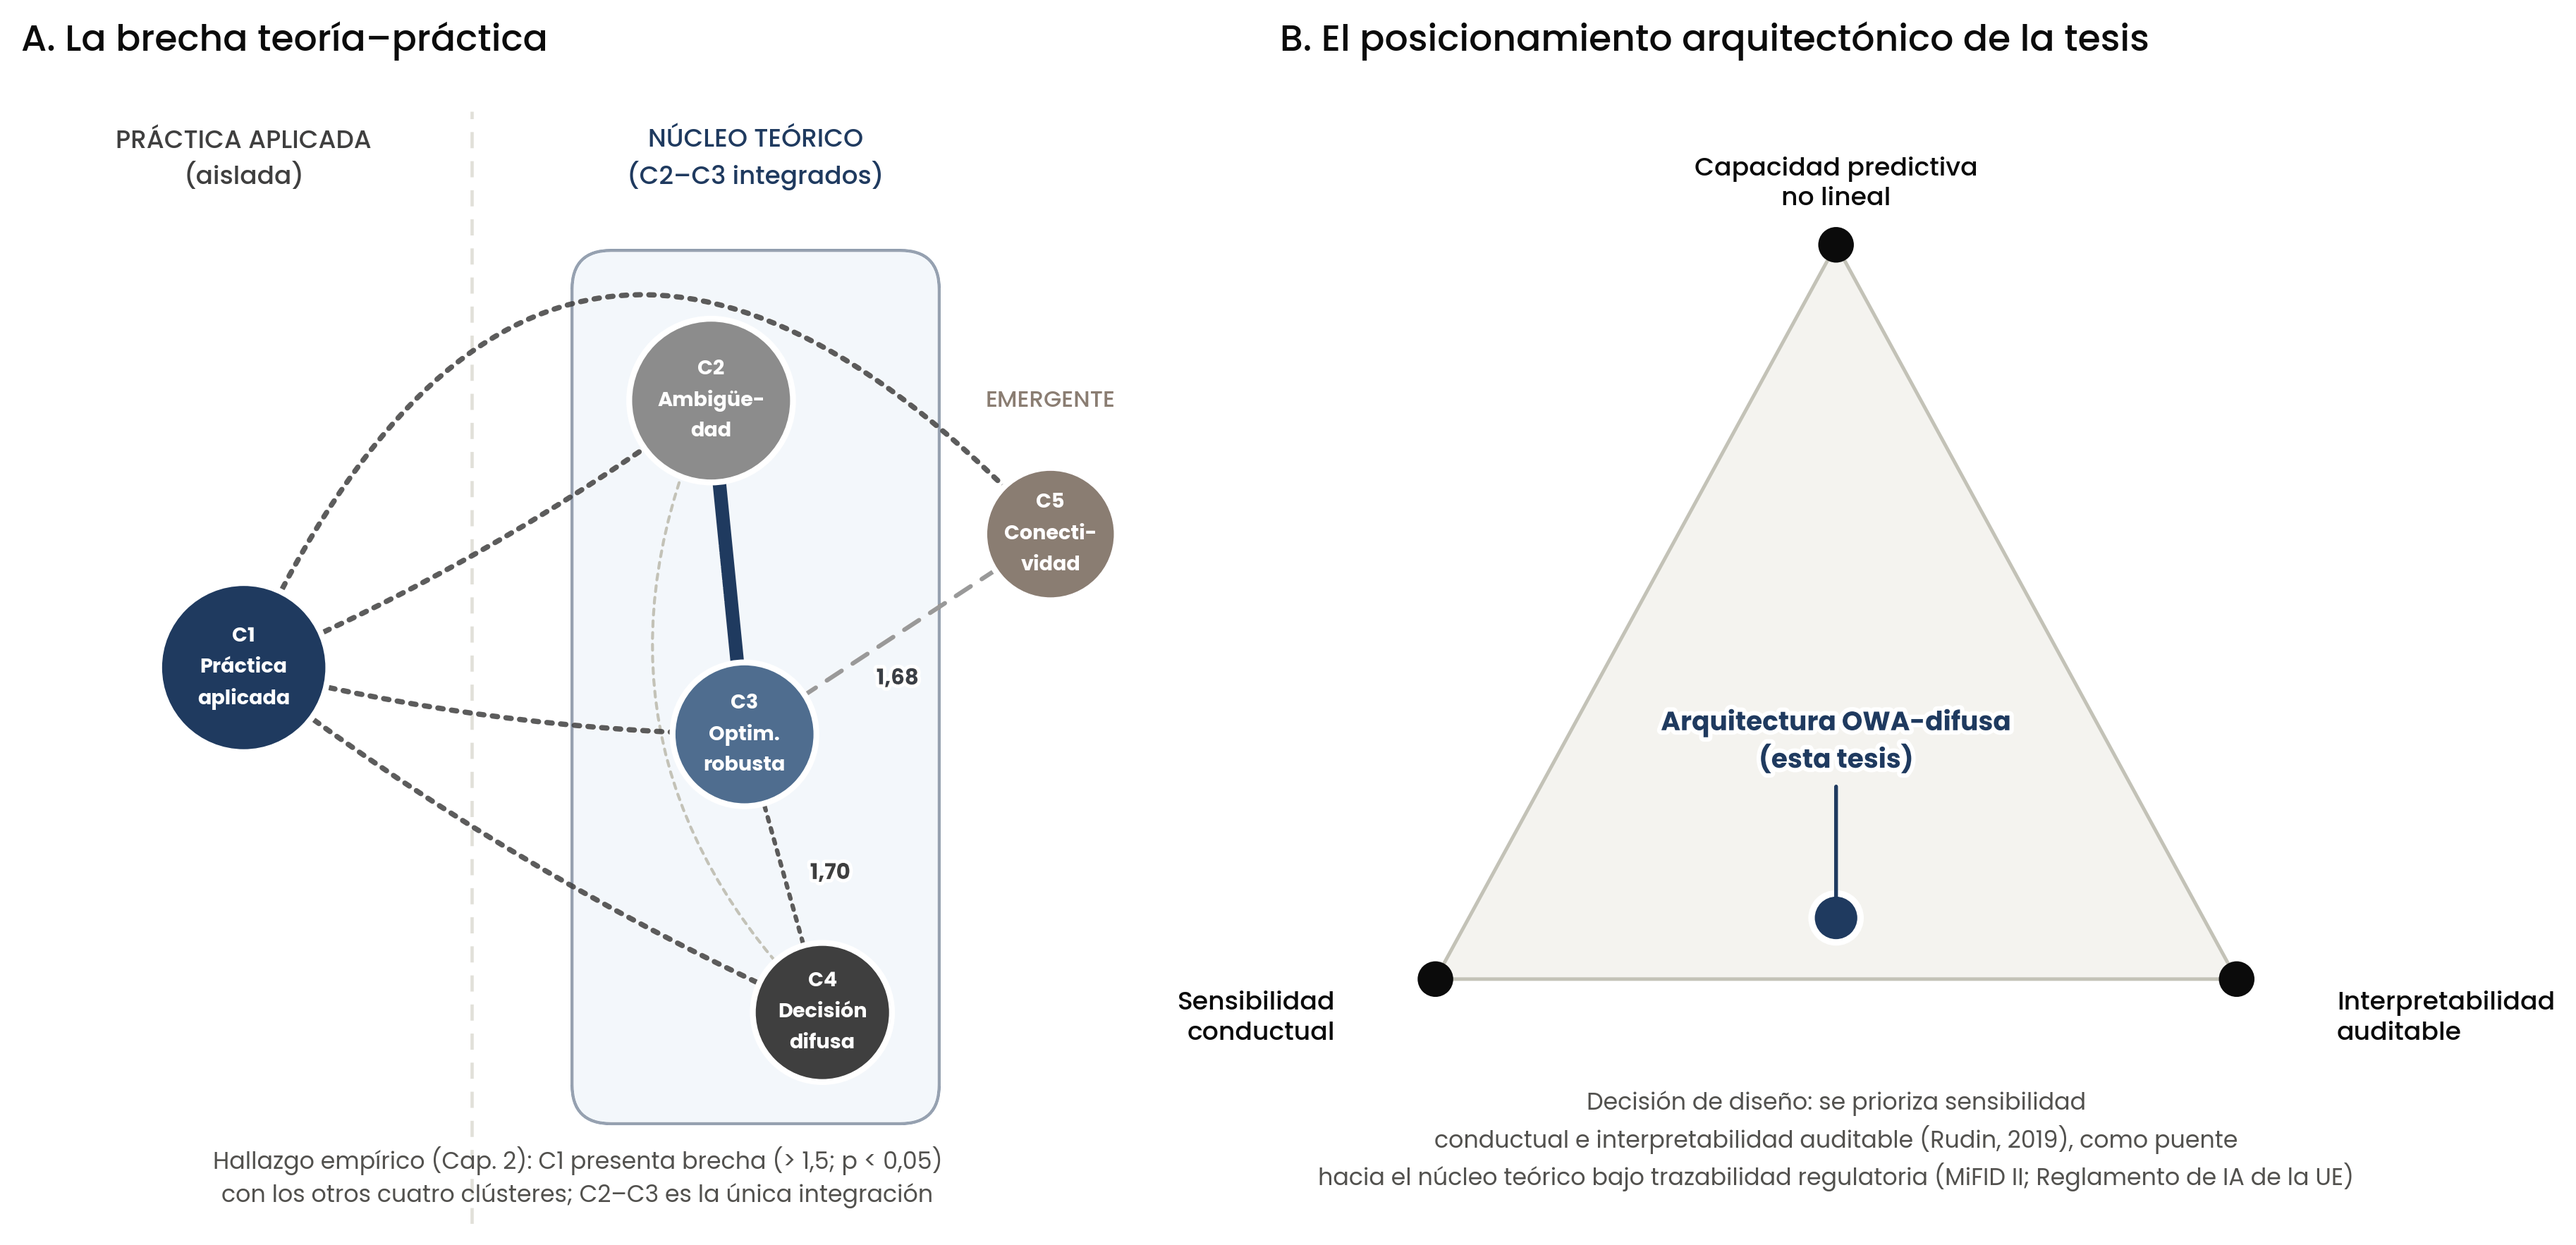
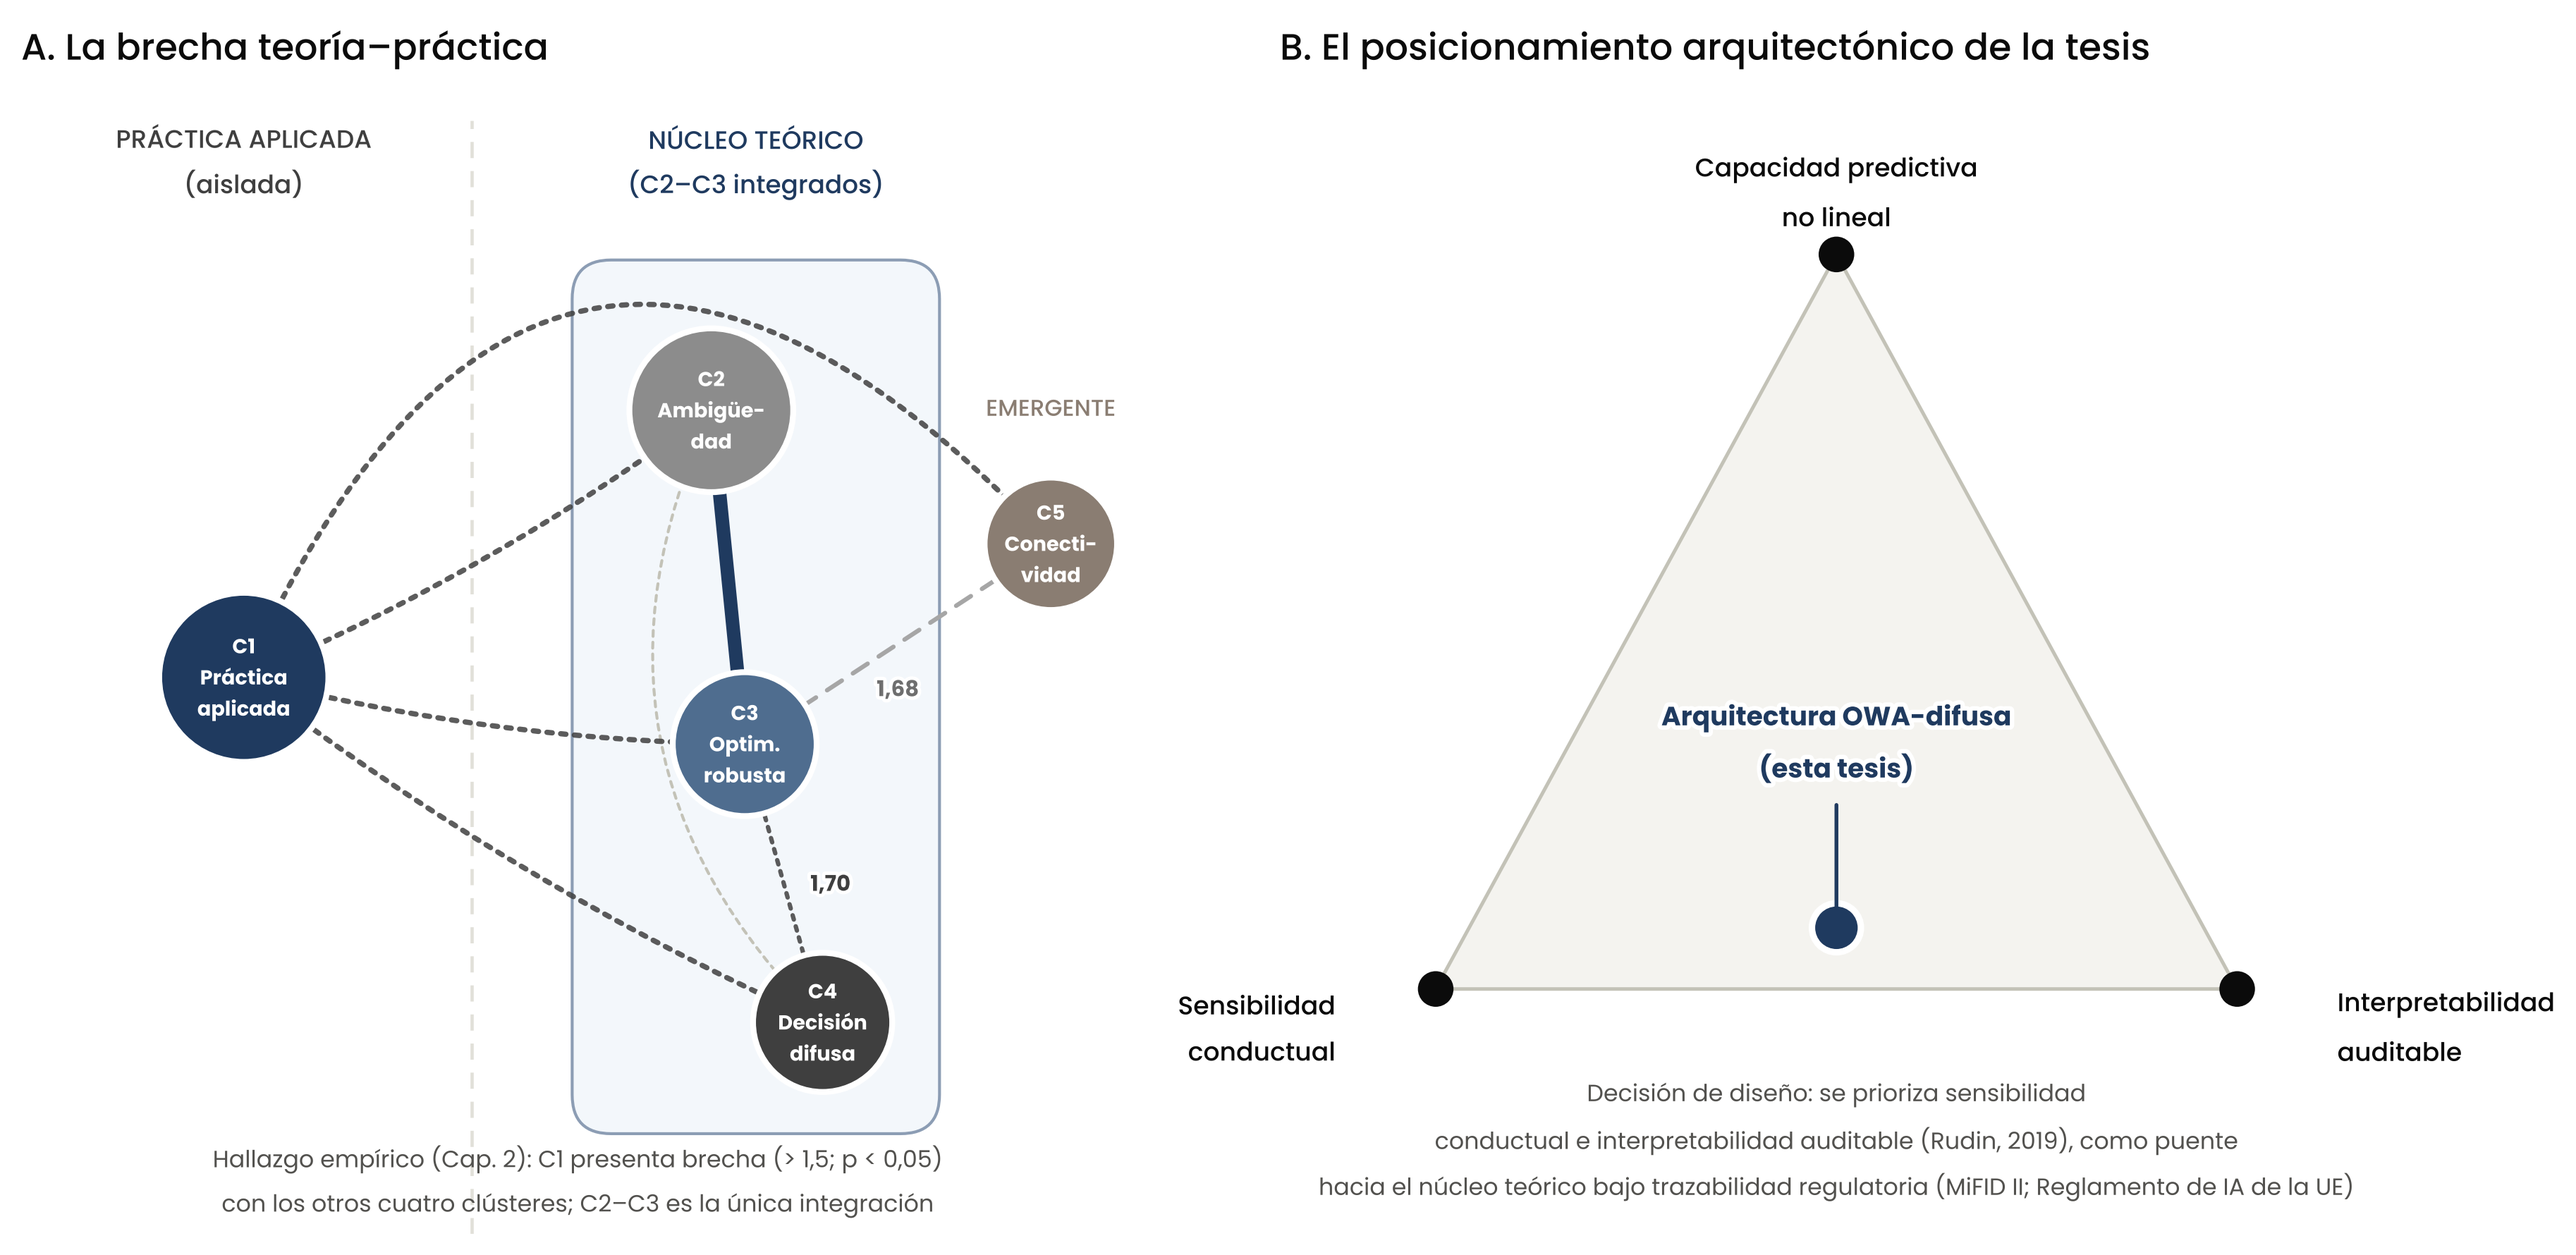
Figuras 1.4, 2.1 y 2.6 sin tonos fuera de la paleta institucional
Claude-Session: https://claude.ai/code/session_01RG4e5UCGkXs2BPnCGDaWtZ

diff --git a/figures/fig_2_6_brecha.py b/figures/fig_2_6_brecha.py
@@ -3,10 +3,10 @@
 Los valores proceden de data/final/gap_analysis_v2.json (Tabla 2.3; Figura 2.5
 para la matriz completa) y los p-valores de results/prueba_brechas.csv
 (scripts/11_prueba_brechas_poisson.py). Convención de trazo:
-- rojo punteado: índice > 1,5 y p < 0,05 (prueba de Poisson);
-- rojo tenue discontinuo: índice > 1,5 con p >= 0,05;
+- gris oscuro punteado: índice > 1,5 y p < 0,05 (prueba de Poisson);
+- gris tenue discontinuo: índice > 1,5 con p >= 0,05;
 - gris: índice próximo a 1 (sin brecha);
-- azul continuo: integración por encima de lo esperado.
+- azul marino continuo: integración por encima de lo esperado.
 """
 import sys
 sys.path.insert(0, '.')
@@ -42,7 +42,7 @@ labels = {
     5: 'C5\nConectividad',
 }
 GMAX = gap[(1, 4)]['gap_score']
-FAINT_RED = '#e8a77a'
+FAINT_GREY = '#A6A6A6'
 
 
 def radius(r):
@@ -68,10 +68,10 @@ def gap_edge(i, j, frac, dx=0.0, dy=0.0, rad=0.06):
                              connectionstyle=f'arc3,rad={rad}')
         txt, col = coma(g), DIV_RED
     else:
-        a = FancyArrowPatch(pos[i], pos[j], arrowstyle='-', linewidth=lw, color=FAINT_RED,
+        a = FancyArrowPatch(pos[i], pos[j], arrowstyle='-', linewidth=lw, color=FAINT_GREY,
                              linestyle=(0, (4, 3)), zorder=2, alpha=0.9,
                              connectionstyle=f'arc3,rad={rad}')
-        txt, col = f'{coma(g)}\n(p = {coma(pval[key], 2)})', '#b0602b'
+        txt, col = f'{coma(g)}\n(p = {coma(pval[key], 2)})', '#6E6E6E'
     ax.add_patch(a)
     edge_label(i, j, frac, txt, col, dx, dy)
 
@@ -131,7 +131,7 @@ ax.text(9.7, 3.3, 'Sin co-ocurrencia\n(no se dibujan):\n'
 # Leyenda de trazos
 handles = [
     Line2D([0], [0], color=DIV_RED, lw=2.4, linestyle=(0, (1, 1.2)), label='Brecha > 1,5 con p < 0,05'),
-    Line2D([0], [0], color=FAINT_RED, lw=2.4, linestyle=(0, (4, 3)), label='Brecha > 1,5 con p ≥ 0,05'),
+    Line2D([0], [0], color=FAINT_GREY, lw=2.4, linestyle=(0, (4, 3)), label='Brecha > 1,5 con p ≥ 0,05'),
     Line2D([0], [0], color=BASELINE, lw=1.4, linestyle=(0, (2, 2)), label='Sin brecha (≈ 1)'),
     Line2D([0], [0], color=DIV_BLUE, lw=4.0, label='Integración (< 1)'),
 ]

diff --git a/figures/fig_1_4_brecha_diseno.py b/figures/fig_1_4_brecha_diseno.py
@@ -63,12 +63,12 @@ axL.add_patch(a)
 # C2-C4 (1,03): sin brecha (valores en la Tabla 2.3 y results/prueba_brechas.csv)
 axL.add_patch(FancyArrowPatch(pos['C3'], pos['C4'], arrowstyle='-', linewidth=1.5, color=DIV_RED,
                               linestyle=(0, (1, 1.6)), zorder=2, alpha=0.85))
-axL.add_patch(FancyArrowPatch(pos['C3'], pos['C5'], arrowstyle='-', linewidth=1.5, color='#e8a77a',
+axL.add_patch(FancyArrowPatch(pos['C3'], pos['C5'], arrowstyle='-', linewidth=1.5, color='#A6A6A6',
                               linestyle=(0, (4, 3)), zorder=2))
 axL.add_patch(FancyArrowPatch(pos['C2'], pos['C4'], arrowstyle='-', linewidth=1.0, color=BASELINE,
                               linestyle=(0, (2, 2)), zorder=1, connectionstyle='arc3,rad=0.35'))
 for (i, j), txt, col, dx, dy in [(('C3', 'C4'), '1,70', DIV_RED, 0.42, 0.0),
-                                 (('C3', 'C5'), '1,68', '#b0602b', 0.0, -0.40)]:
+                                 (('C3', 'C5'), '1,68', '#6E6E6E', 0.0, -0.40)]:
     mx, my = (pos[i][0] + pos[j][0]) / 2 + dx, (pos[i][1] + pos[j][1]) / 2 + dy
     axL.text(mx, my, txt, ha='center', va='center', fontsize=7.4, color=col, family='Poppins',
              fontweight='bold', zorder=6, path_effects=[pe.withStroke(linewidth=2.4, foreground='white')])

diff --git a/figures/fig_2_1_prisma.py b/figures/fig_2_1_prisma.py
@@ -50,7 +50,7 @@ def arrow(x1, y1, x2, y2, color=BASELINE):
 def side_note(cx, cy, text, color=DIV_RED):
     b = FancyBboxPatch((cx - 1.55, cy - 0.34), 3.1, 0.68,
                         boxstyle="round,pad=0.02,rounding_size=0.10",
-                        linewidth=1.1, edgecolor=color, facecolor='#fdf3f2', zorder=3)
+                        linewidth=1.1, edgecolor=color, facecolor='#F2F2F2', zorder=3)
     ax.add_patch(b)
     ax.text(cx, cy, text, ha='center', va='center', fontsize=7.6,
             color=INK_PRIMARY, family='Poppins', zorder=4)
